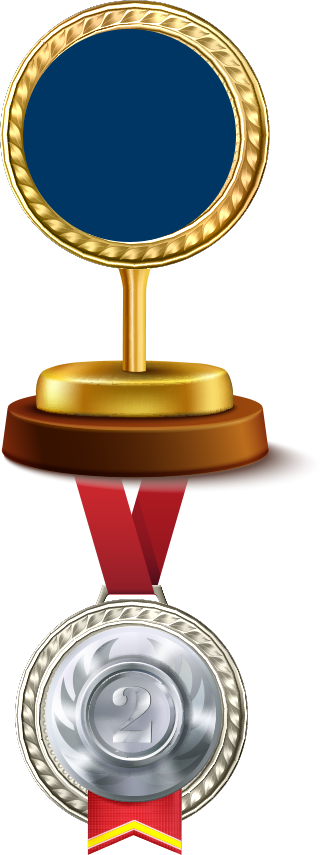
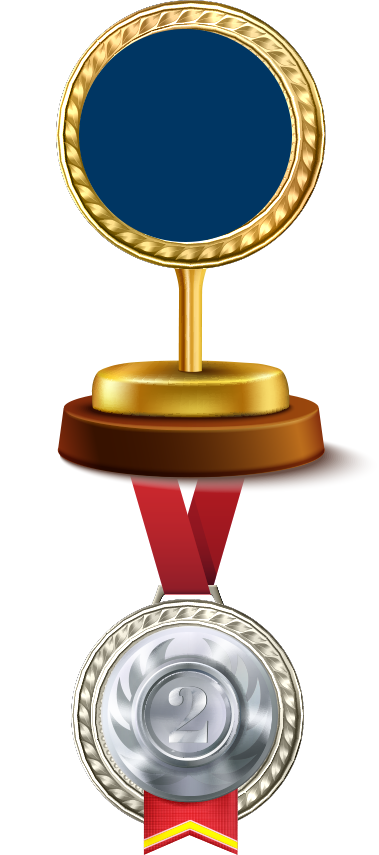
add data table-tank

diff --git a/virsual_run.html b/virsual_run.html
@@ -142,7 +142,7 @@
       <section class="rank-bg">
         <div class="container rank-light">
           <div class="row justify-content-center">
-            <div class="col-12 text-center">
+            <div class="col-12 text-center d-none d-md-block">
               <div class="box-rank">
                 <div class="box-rank-1">
                   <div class="box-rank-1-data">
@@ -180,6 +180,116 @@
                     </div>
                   </div>
                 </div>
+              </div>
+            </div>
+            <div class="col-12 mt-5">
+              <div class="table-responsive table-rank-responsive z-depth-2">
+                <table class="table-rank">
+                  <thead>
+                    <tr>
+                      <th>
+                        อันดับ
+                      </th>
+                      <th></th>
+                      <th></th>
+                      <th>
+                        ระยะทาง<br /><span class="sup-th">(กิโลเมตร)</span>
+                      </th>
+                      <th>เวลา<br /><span class="sup-th">(นาที)</span></th>
+                    </tr>
+                  </thead>
+                  <tbody>
+                    <tr class="d-md-none">
+                      <td class="text-center">
+                        <img
+                          src="./images/num-one.png"
+                          class="table-rank-num"
+                        />
+                      </td>
+                      <td class="text-center">
+                        <img
+                          src="./images/profile.jpg"
+                          class="table-rank-profile z-depth-1-half"
+                        />
+                      </td>
+                      <td class="text-left">
+                        อนุชา ชัยมงคล
+                      </td>
+                      <td class="text-center">
+                        512.34
+                      </td>
+                      <td class="text-center">
+                        1,012
+                      </td>
+                    </tr>
+                    <tr class="d-md-none">
+                      <td class="text-center">
+                        <img
+                          src="./images/num-two.png"
+                          class="table-rank-num"
+                        />
+                      </td>
+                      <td class="text-center">
+                        <img
+                          src="./images/profile.jpg"
+                          class="table-rank-profile z-depth-1-half"
+                        />
+                      </td>
+                      <td class="text-left">
+                        อนุชา ชัยมงคล
+                      </td>
+                      <td class="text-center">
+                        512.34
+                      </td>
+                      <td class="text-center">
+                        1,012
+                      </td>
+                    </tr>
+                    <tr class="d-md-none">
+                      <td class="text-center">
+                        <img
+                          src="./images/num-three.png"
+                          class="table-rank-num"
+                        />
+                      </td>
+                      <td class="text-center">
+                        <img
+                          src="./images/profile.jpg"
+                          class="table-rank-profile z-depth-1-half"
+                        />
+                      </td>
+                      <td class="text-left">
+                        อนุชา ชัยมงคล
+                      </td>
+                      <td class="text-center">
+                        512.34
+                      </td>
+                      <td class="text-center">
+                        1,012
+                      </td>
+                    </tr>
+                    <tr>
+                      <td class="text-center">
+                        999
+                      </td>
+                      <td class="text-center">
+                        <img
+                          src="./images/profile.jpg"
+                          class="table-rank-profile z-depth-1-half"
+                        />
+                      </td>
+                      <td class="text-left">
+                        อนุชา ชัยมงคล
+                      </td>
+                      <td class="text-center">
+                        512.34
+                      </td>
+                      <td class="text-center">
+                        1,012
+                      </td>
+                    </tr>
+                  </tbody>
+                </table>
               </div>
             </div>
           </div>

diff --git a/css/css.css b/css/css.css
@@ -373,21 +373,23 @@ form.credit #number {
 }
 .box-rank .box-rank-1 {
   position: absolute;
-  top: 80px;
-  left: 202px;
+  top: 78px;
+  left: 190px;
   cursor: pointer;
   z-index: 50;
+  width: 238px;
+  text-align: center;
 }
 .box-rank .box-rank-1 .box-rank-1-data {
   text-align: center;
 }
 .box-rank .box-rank-1 .box-rank-1-data .img-rank-1 {
-  top: 17px;
-  left: 65px;
-  width: 80px;
+  top: 22px;
+  left: 76px;
+  width: 85px;
 }
 .box-rank .box-rank-1 .box-rank-1-data .img-cup-1 {
-  width: 210px;
+  width: 238px;
 }
 .score.score-rank-1 {
   margin-top: 6vh;
@@ -395,20 +397,22 @@ form.credit #number {
 
 .box-rank .box-rank-2 {
   position: absolute;
-  top: 130px;
-  left: 120px;
+  top: 125px;
+  left: 15px;
   cursor: pointer;
+  width: 230px;
+  text-align: center;
 }
 .box-rank .box-rank-2 .box-rank-2-data {
   text-align: center;
 }
 .box-rank .box-rank-2 .box-rank-2-data .img-rank-2 {
   top: 6px;
-  left: 6px;
-  width: 80px;
+  left: 70px;
+  width: 90px;
 }
 .box-rank .box-rank-2 .box-rank-2-data .img-cup-2 {
-  width: 110px;
+  width: 142px;
 }
 .score.score-rank-2 {
   margin-top: 3vh;
@@ -416,8 +420,8 @@ form.credit #number {
 
 .box-rank .box-rank-3 {
   position: absolute;
-  top: 152px;
-  right: 95px;
+  top: 138px;
+  right: 54px;
   cursor: pointer;
 }
 .box-rank .box-rank-3 .box-rank-3-data {
@@ -425,14 +429,48 @@ form.credit #number {
 }
 .box-rank .box-rank-3 .box-rank-3-data .img-rank-3 {
   top: 6px;
-  left: 6px;
-  width: 80px;
+  left: 21px;
+  width: 90px;
 }
 .box-rank .box-rank-3 .box-rank-3-data .img-cup-3 {
-  width: 110px;
+  width: 137px;
 }
 .score.score-rank-3 {
   margin-top: 0.8vh;
+}
+.table-rank-responsive {
+  background-color: #ffffff;
+  max-width: 600px;
+  margin: 0 auto;
+  padding: 1rem;
+  border-radius: 8px;
+}
+.table-rank {
+  width: 100%;
+}
+.table-rank-num {
+  width: 50px;
+}
+.table-rank thead tr th {
+  text-align: center;
+  font-size: 1rem;
+  color: #148ec1;
+  line-height: 1rem;
+  padding-bottom: 1rem;
+}
+.table-rank thead tr th span.sup-th {
+  font-size: 0.8rem;
+  color: #000000;
+  line-height: 0rem;
+}
+.table-rank-profile {
+  border-radius: 50%;
+  width: 50px;
+}
+.table-rank tbody tr td {
+  padding-top: 10px;
+  padding-bottom: 10px;
+  border-bottom: 1px solid #cde5f0;
 }
 @media (max-width: 575px) {
 }
